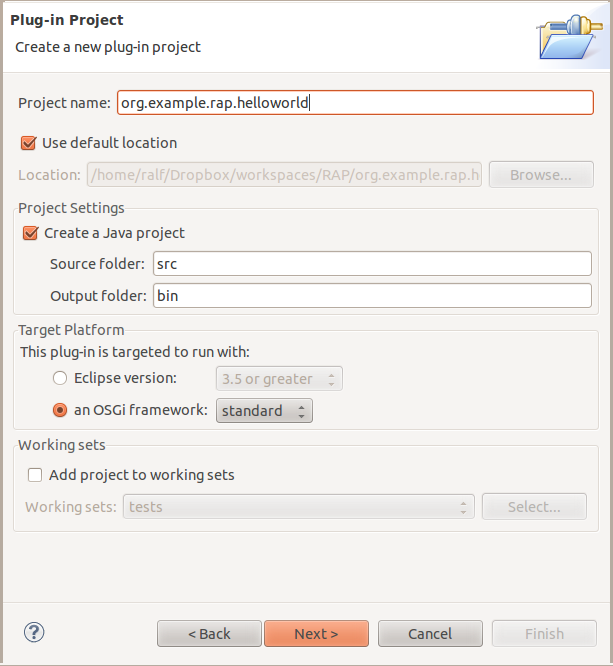
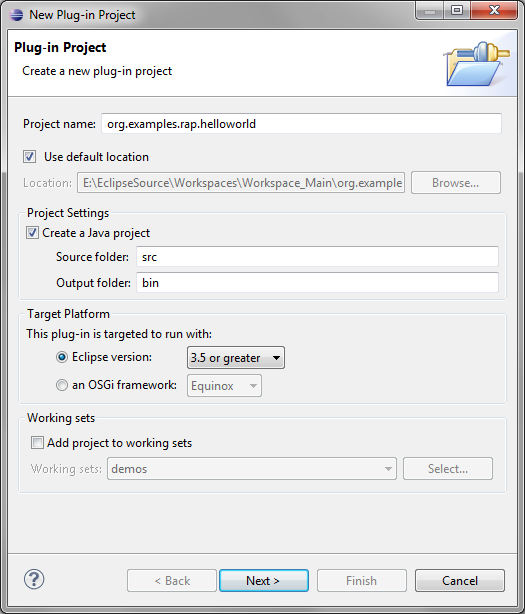
Revise dev guide getting started chapter

Changed region(s): [[0.0, 0.0, 1.0, 1.0], [0.7924, 0.2476, 0.9448, 0.3404]]

diff --git a/bundles/org.eclipse.rap.doc/guide/articles/hello-world.html b/bundles/org.eclipse.rap.doc/guide/articles/hello-world.html
@@ -10,13 +10,11 @@
 </head>
 <body>
 
-  <h1>Writing a Hello World with RAP</h1>
+  <h1>Creating a Hello World with RAP</h1>
   <p>
     This document describes how to quickly create and launch a first user interface with RAP.
     A complete application includes a few more components, depending on your
     <a href = "application-setup.html">application setup</a>.
-    If you want to create a Workbench-based application, start with a template instead
-    (see <a href = "../examples.html">Examples</a>).
   </p>
 
   <h2>Preconditions</h2>
@@ -32,82 +30,71 @@
     unless you want to write an <a href = "rwt-standalone">RAP applications
     without OSGi</a>. In the latter case, you can also create a plain <em>Java Project</em> here.
     (If you do so, the project setup will differ slightly from this tutorial. Most notably, you
-    will have to add <em>org.eclipse.rap.rwt</em> to the java build path/<em class="UILabel">Required Projects</em>
-    in the next step.)
+    will have to add <em>org.eclipse.rap.rwt</em> to the java build path/
+    <em class="UILabel">Required Projects</em> in the next step.)
   </p><p>
     From the menu, select <em class="UILabel">File &gt; New &gt; Plug-in Project</em>.
     Let's call the plug-in <code>org.example.rap.helloworld</code>.
     In the <em class="UILabel">Target Platform</em> box, choose
-    <em class="UILabel">an OSGi framework</em> and <em class="UILabel">standard</em> to create a
-    bundle that is compatible with any OSGi framework.
+    <em class="UILabel">Eclipse version</em> and <em class="UILabel">3.5 or greater</em> to create a
+    bundle that is compatible with Eclipse.
   </p>
   <img src="../images/hello-world/NewProject-1.png" alt="New Project Wizard"/>
   <p>
     On the second page of the wizard, disable the option
     <em class="UILabel">Generate an activator, …</em>.
     (This option would create a bundle activator, but we don't need that now.)
-    Click "Finish".
+    Ensure that no <em class="UILabel">Rich Client Application</em> will be created.
   </p>
   <img src="../images/hello-world/NewProject-2.png" alt="New Project Wizard"/>
-
-  <h2>Add a dependency to RWT</h2>
   <p>
-    To display widgets, we need a dependency to the RAP widget toolkit (RWT), which is RAP's
-    implementation of SWT.
-    It is contained in the plug-in <em>org.eclipse.rap.rwt</em>.
-    To add this dependency, open the bundle manifest file <em>META-INF/MANIFEST.MF</em> with
-    the <em class="UILabel">Plug-in Manifest Editor</em> (the default for this file type). Go to the
-    <em class="UILabel">Dependencies</em> page and add <em>org.eclipse.rap.rwt</em> to the
-    list of <em class="UILabel">Required Plug-ins</em> and save.
+    On the next page select the <em class="UILabel">RAP Hello World</em> template.
   </p>
+  <img src="../images/hello-world/NewProject-3.png" alt="New Project Wizard"/>
+  <p>
+    Set the <em class="UILabel">Application window title</em> and
+    <em class="UILabel">Package name</em> and click "Finish".
+  </p>
+  <img src="../images/hello-world/NewProject-4.png" alt="New Project Wizard"/>
 
-  <h2 id="entrypoint">Create an Entry Point</h2>
+  <p>
+    The wizard will create all needed classes for your RAP application.
+  </p>
+  <h2 id="entrypoint">Create the application UI</h2>
   <p>
     Every RAP application needs an entry point class that creates the initial UI of the application.
   </p>
   <p>
-    Before we can create the entry point, we need a package.
-    A good name for the main package in a bundle is the bundle id,
-    so we name the package <em>org.example.rap.helloworld</em>.
-    In this package, we create a class named <em>HelloWorldEntryPoint</em> that extends
-    <em><a href="../reference/api/org/eclipse/rap/rwt/application/AbstractEntryPoint.html">AbstractEntryPoint</a></em>.
-    In the method <em><a href="../reference/api/org/eclipse/rap/rwt/application/AbstractEntryPoint.html#createContents(org.eclipse.swt.widgets.Composite)">createContents</a></em>,
-    we add some SWT code. In the example below, we added a Button with the text “Hello world!”:
+    The wizard automatically creates a class named <em>BasicEntryPoint</em> that extends
+    <em><a href="../reference/api/org/eclipse/rap/rwt/application/AbstractEntryPoint.html">AbstractEntryPoint</a></em>
+    in the speified package. In the method 
+    <em><a href="../reference/api/org/eclipse/rap/rwt/application/AbstractEntryPoint.html#createContents(org.eclipse.swt.widgets.Composite)">createContents</a></em>,
+    we already have some SWT code with two <em>Button</em>'s.
   </p>
   <pre class="lang-java">
-  public class HelloWorldEntryPoint extends AbstractEntryPoint {
+  public class BasicEntryPoint extends AbstractEntryPoint {
 
-    @Override
-    protected void createContents( Composite parent ) {
-      Button button = new Button( shell, SWT.PUSH );
-      button.setText( "Hello world!" );
-    }
+      @Override
+      protected void createContents(Composite parent) {
+          parent.setLayout(new GridLayout(2, false));
+          Button checkbox = new Button(parent, SWT.CHECK);
+          checkbox.setText("Hello");
+          Button button = new Button(parent, SWT.PUSH);
+          button.setText("World");
+      }
 
   }
-</pre>
-  <p>
-    <strong>Note:</strong> RAP 1.x also required the SWT <i>main loop</i> here.
-    This is no longer needed if <em>AbstractEntryPoint</em> is used.
-  </p>
+  </pre>
 
-  <h2>Launch the entry point</h2>
+  <h2>Launch the application</h2>
   <p>
-    Now we can already launch this entry point using the RWT launcher.
-    Select <em class="UILabel">Run As &gt; RWT Application</em> from the context menu of the
-    entry point class.
+    Now we can launch this application using the generated launch configuration 
+    <em>org.examples.rap.helloworld.launch</em> in the project root.
+    Select <em class="UILabel">Run As &gt; org.examples.rap.helloworld</em> from the context menu
+    of the launch configuration file.
     A browser view should open up soon afterwards and show your running application.
     More on launching RAP applications in the chapter
     <a href="./launcher.html">Launching RAP Applications</a>.
-  </p>
-
-  <h2>Complete the application</h2>
-  <p>
-    Until now, we only have a project with an entry point.
-    To turn this into a complete application, the entry point must be registered so that the
-    framework can find it.
-    Lightweight OSGi applications register the entry point in their
-    <a href="application-configuration.html">application configuration</a>.
-    For a workbench application, this would be done <a href="branding.html#entrypoint">using an entry point extension</a>.
   </p>
 
 </body>

diff --git a/bundles/org.eclipse.rap.doc/guide/articles/launcher.html b/bundles/org.eclipse.rap.doc/guide/articles/launcher.html
@@ -107,25 +107,39 @@
       location field.
     </li>
     <li>
-      In the <em class="UILabel">Runtime Settings</em>, you can select a fixed network port
-      to start your application at.
-      If you don't configure a port, the launcher will choose a free port, which may be different
-      on every launch.
-    </li>
-    <li>
-      The <em class="UILabel">Browser</em> group lets you control whether the application should be
+      The <em class="UILabel">Open in Browser</em> group lets you control whether the application should be
       opened in a browser after a successful start.
       The application can be opened either in an internal browser, i.e. embedded in the Eclipse IDE,
       or in an external browser.
       The external browser application can be configured in the <em>Web Browser</em> preference
-      settings, the link <em class="UILabel">Configure browsers…</em> lets you jump right there.
-    </li>
-    <li>
-      The <em class="UILabel">servlet path</em> is used to construct the URL to be opened with the
+      settings, the link <em class="UILabel">Configure browsers…</em> lets you jump right there.<br/>
+      The <em class="UILabel">Servlet Path</em> is used to construct the URL to be opened with the
       browser.
       If you're launching an <em>entry point</em>, you are free to choose an arbitrary path.
       When launching an application from a <em>web.xml</em>, it must point to one of the servlets
       defined in the web.xml.
+    </li>
+    <li>
+      In the <em class="UILabel">Server Settings</em>, you can select a fixed network port
+      to start your application at, a session timeout and a context path.
+      <p>
+		    <em class="UILabel">Use a fixed port</em> configuration lets you select a fixed network port
+		    to start your application at.
+		    If you don't configure a port, the launcher will choose a free port, which may be
+		    different on every launch.
+		  </p>
+		  <p>
+		    <em class="UILabel">Session Timeout</em> specifies the servlet session timeout in minutes.
+		    If the checkbox is unselected, the session will never expire.
+		  </p>
+		  <p>
+		    <em class="UILabel">Context Path</em> selects an optional context path for the web application.
+		    The context path is part of a web application's URL, e.g.
+		    <code>http://&lt;server&gt;:&lt;port&gt;/contextPath/servletPath</code>.
+		    In a servlet container, every webapp is available at its own context path.
+		    This setting lets you simulate the same context path that your application will be accessible
+		    at in the production environment.
+		  </p>
     </li>
   </ul>
 
@@ -157,21 +171,15 @@
   <p>
     The <em class="UILabel">Servlet Path</em> field lets you configure the URL that will be
     opened in the browser. Which path is mapped to which entry point is configured in the
-    <a href="application-configuration.html">application configuration</a> or
-    (for workbench applications) in the <a href="branding.html">Branding</a>.
+    <a href="application-configuration.html">application configuration</a></a>.
   </p>
 
-  <h3>Runtime Settings</h3>
+  <h3>Server Settings</h3>
   <p>
-    <em class="UILabel">Manual Port configuration</em> lets you can select a fixed network port
+    <em class="UILabel">Use a fixed port</em> configuration lets you select a fixed network port
     to start your application at.
     If you don't configure a port, the launcher will choose a free port, which may be
     different on every launch.
-  </p>
-  <p>
-    When the option <em class="UILabel">Terminate possible running previous launch</em> is selected,
-    the launcher automatically stops an application with the same name that is currently running.
-    This helps to restart applications quickly without having to stop the application before.
   </p>
   <p>
     <em class="UILabel">Session Timeout</em> specifies the servlet session timeout in seconds.

diff --git a/bundles/org.eclipse.rap.doc/guide/articles/examples.html b/bundles/org.eclipse.rap.doc/guide/articles/examples.html
@@ -45,31 +45,39 @@
     </li>
 
     <li>
-      <h3>Demo Plug-in</h3>
+      <h3>Demo Plug-ins</h3>
       <p>
-        The RAP project comes with two example applications demonstrating the features and
+        The RAP project comes with three example applications demonstrating the features and
         capabilities of RAP.
       </p>
       <p>
         The first application provides a workbench very closely aligned to the RCP workbench.
+        It requires the following bundles:
+        <ul>
+          <li>org.eclipse.rap.demo</li>
+          <li>org.eclipse.rap.demo.databinding</li>
+        </ul>
         The second demo, referred to as the 'controls demo', shows what widgets there are and that
         they behave very similar to the SWT widgets.
+        It requires the following bundles:
+        <ul>
+          <li>org.eclipse.rap.demo.controls</li>
+        </ul>
+        The third demo, called 'examples demo', demonstrates some widget specific features.
+        It requires the following bundles:
+        <ul>
+          <li>org.eclipse.rap.examples</li>
+          <li>org.eclipse.rap.examples.pages</li>
+        </ul>
       </p>
       <p>
         To access and run these demo applications, please open the Plug-ins view
         (e.g. through the Plug-in Development perspective).
-        Select the plug-in named <em>org.eclipse.rap.demo</em> which contains both demo
-        applications, right-click on this plug-in and select
+        Select the coresponding plug-ins, right-click on them and select
         <em class="UILabel">Import as &gt; Source Project</em>.
-        This plug-in will then appear with all source files in your workspace.
-        The demo also provides a ready-to-use
-        <a href="launcher.html#osgi-launcher">OSGi Launch Configuration</a>.
-      </p>
-      <p>
-        After launching, you can access the workbench demo using the URL<br/>
-        <code>http://localhost:&lt;port&gt;/rap</code>.
-        The controls demo is available at<br/>
-        <code>http://localhost:&lt;port&gt;/controls</code>.
+        These plug-ins will then appear with all source files in your workspace.
+        All demos also provide a ready-to-use
+        <a href="launcher.html#rap-launcher">RAP Launch Configurations</a>.
       </p>
     </li>
   </ul>

diff --git a/bundles/org.eclipse.rap.doc/guide/articles/setup-ide.html b/bundles/org.eclipse.rap.doc/guide/articles/setup-ide.html
@@ -48,7 +48,8 @@
     </li>
     <li>
       After a short while, an entry labeled <em>Remote Application Platform (RAP)</em> appears
-      in the list below. Select its check box and click <em class="UILabel">Next</em>.
+      in the list below. Depends on your Eclipse IDE, select the corresponding check box 
+      and click <em class="UILabel">Next</em>.
     </li>
     <li>
       On the next page you may review the installation details.
